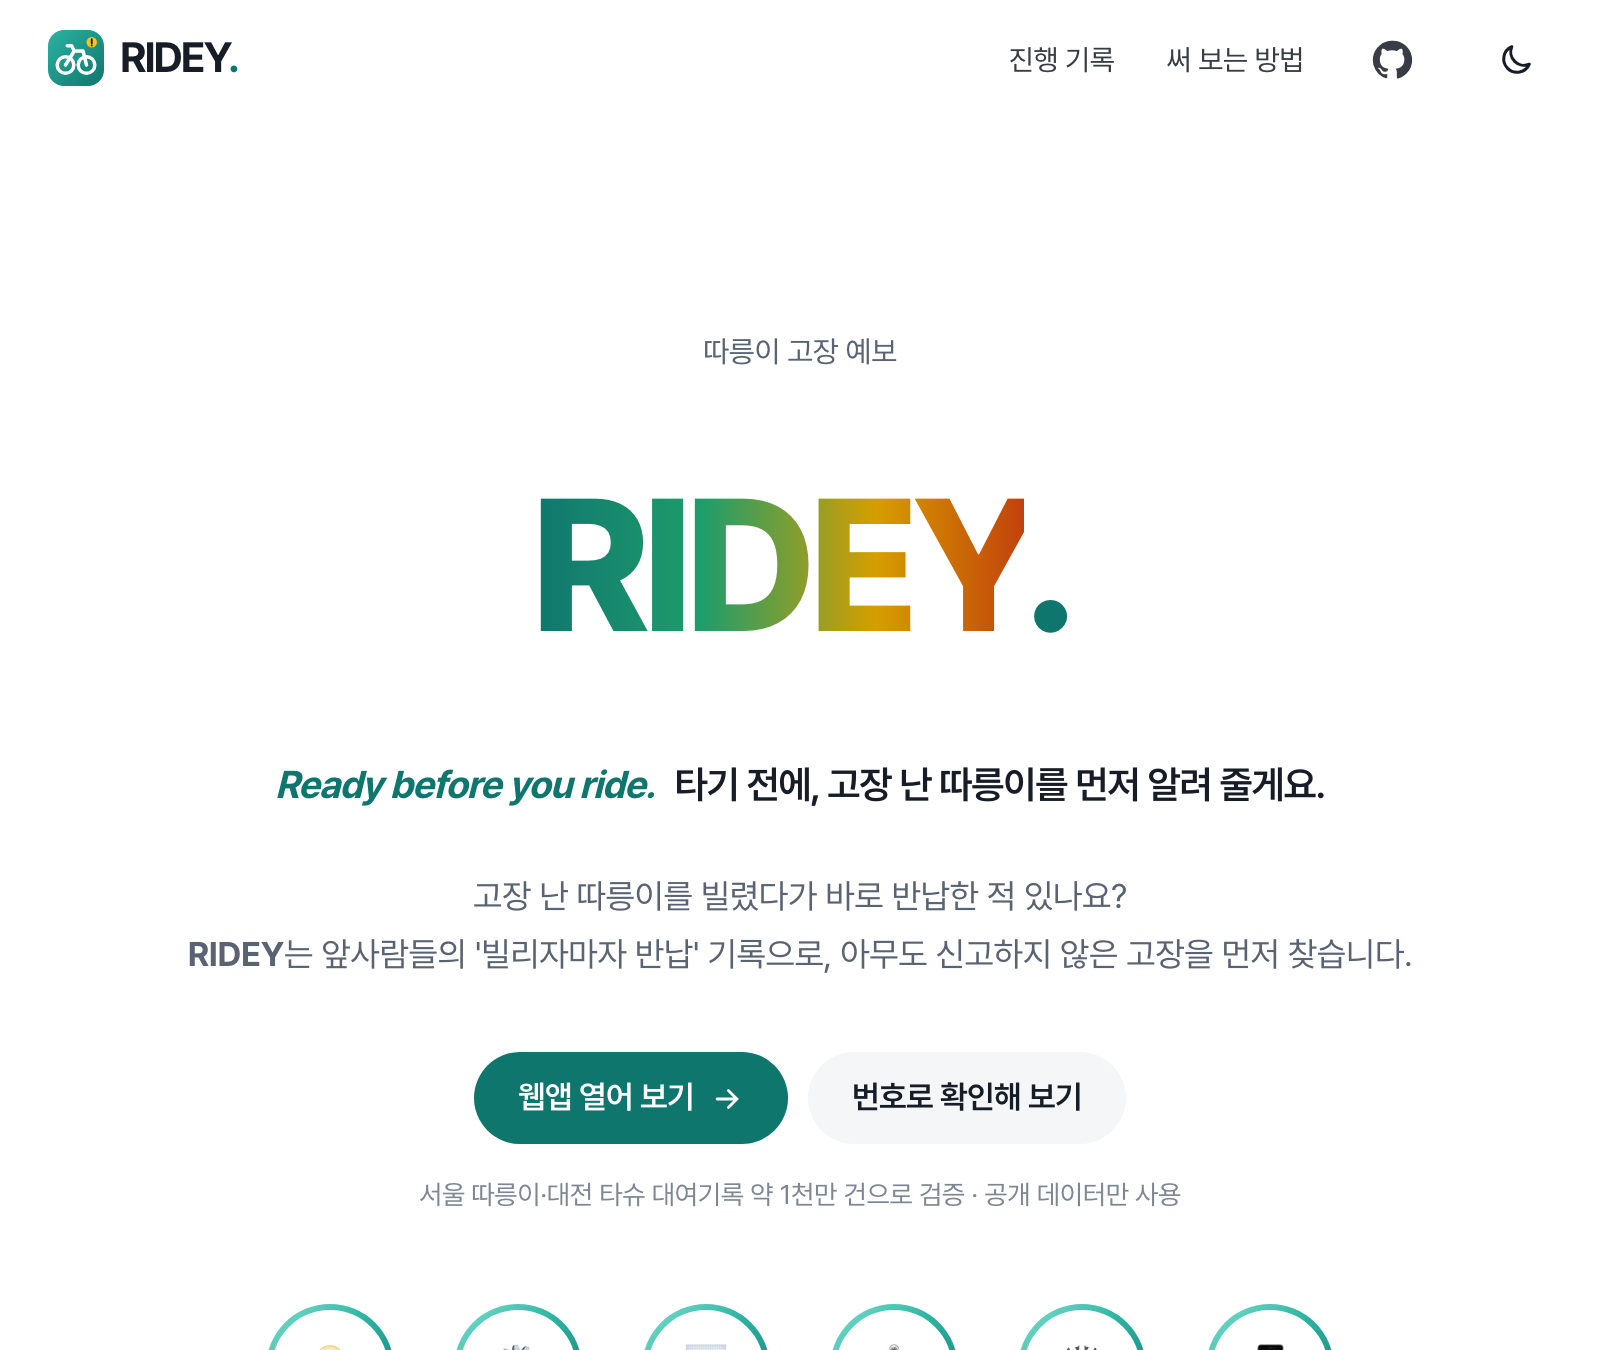
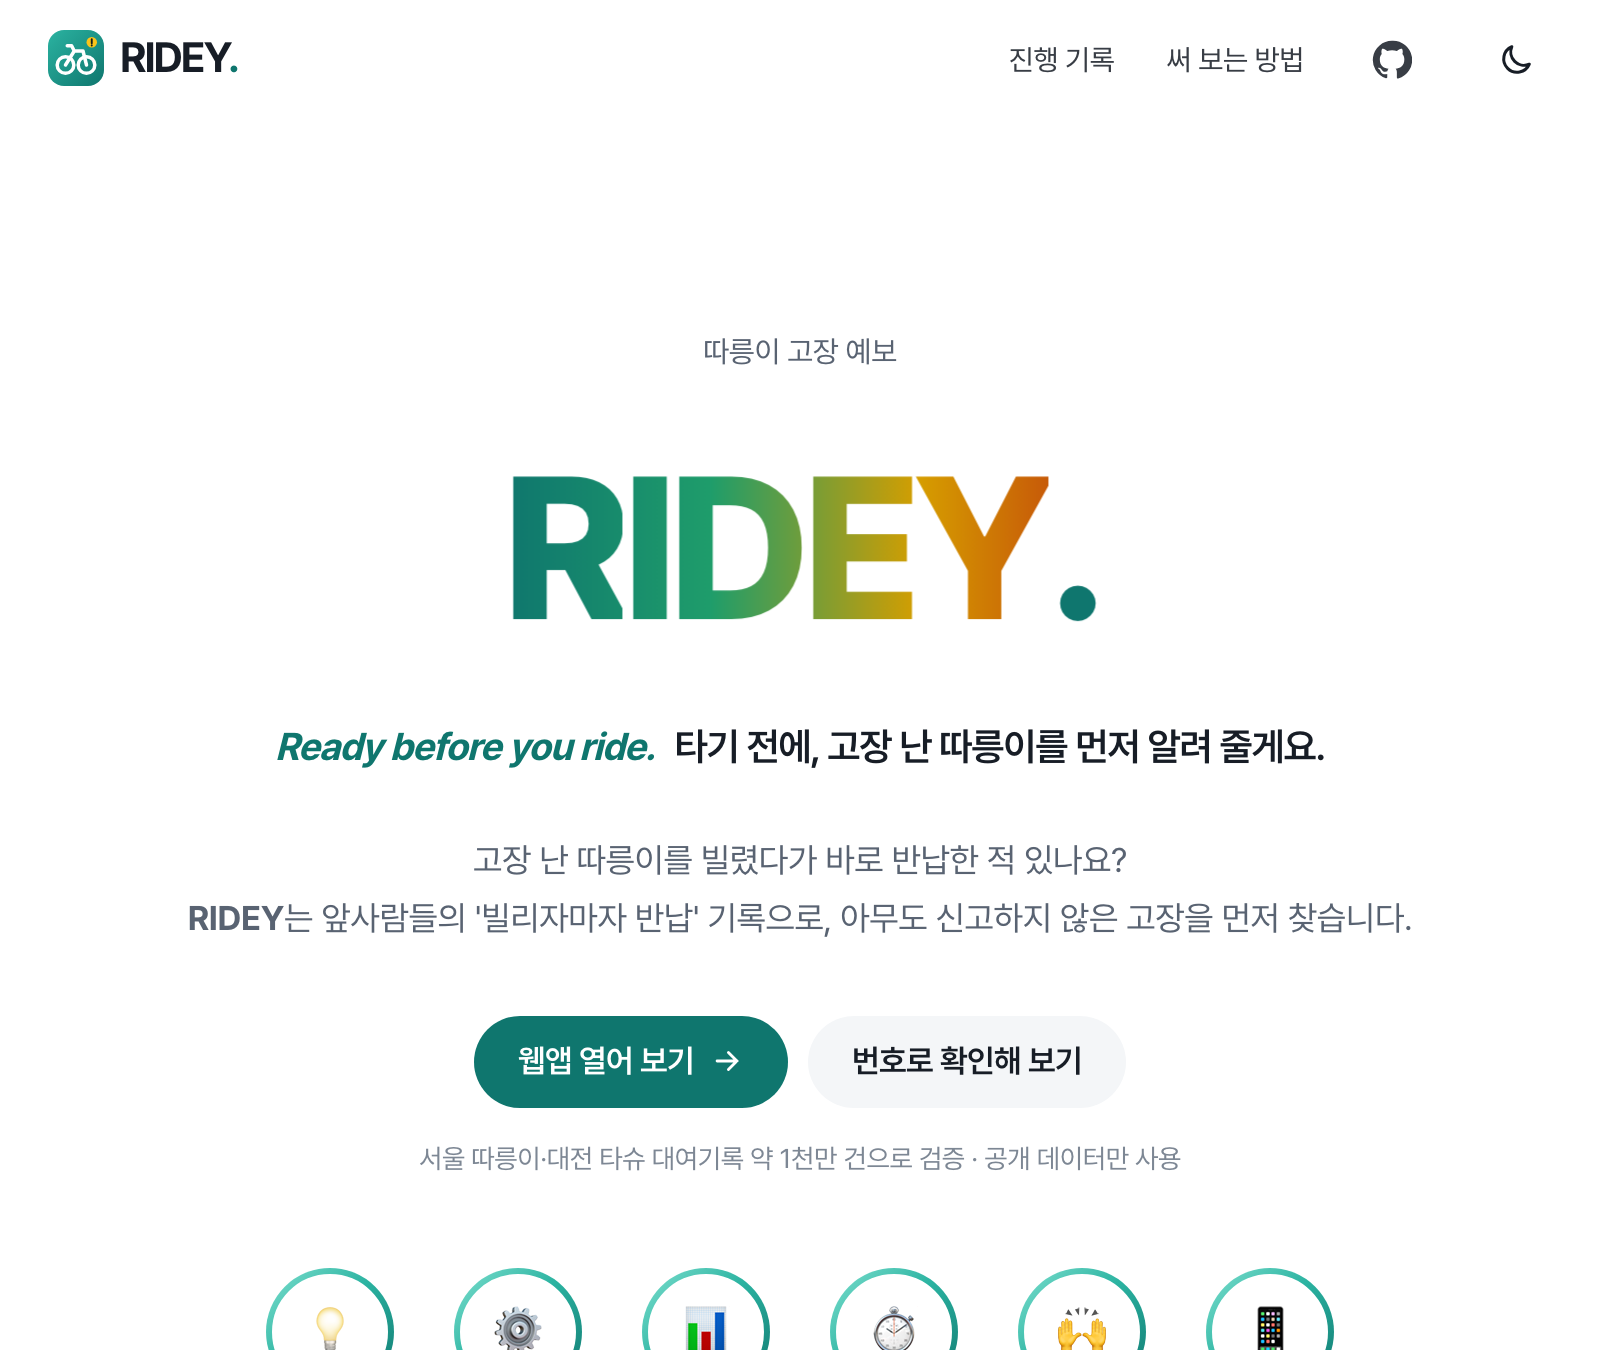
사이트 첫 화면 다시: 원래 모양(두 줄·무지개 둘째 줄·깜빡이는 커서)으로 타자 '빌리기 전에, / 준비.' → 지우고 'Ready before / you ride.' → 펑: 글자가 3D 로 화면 앞으로 튀어나오며 흩어지고 RIDEY. 가 깊은 안쪽에서 앞으로 날아와 자리 잡음

diff --git a/site/index.html b/site/index.html
@@ -38,9 +38,8 @@
     <div class="wrap">
       <p class="eyebrow">따릉이 고장 예보</p>
       <h1 class="brand" id="brand" aria-label="빌리기 전에, 준비. Ready before you ride. RIDEY." title="다시 보기">
-        <span class="b1" id="b1" lang="ko" aria-hidden="true">빌리기 전에, <em>준비.</em></span>
-        <span class="b2" id="b2" lang="en" aria-hidden="true">Ready before you ride.</span>
-        <span class="b3" id="b3" lang="en" aria-hidden="true">RIDEY.</span>
+        <span class="lines" aria-hidden="true"><span class="l1" id="l1"></span><br><span class="l2" id="l2"></span><span class="caret" id="caret"></span></span>
+        <span class="ridey" id="ridey" lang="en" aria-hidden="true"></span>
       </h1>
       <p class="motto-ko"><i lang="en">Ready before you ride.</i> 타기 전에, 고장 난 따릉이를 먼저 알려 줄게요.</p>
       <p class="lede">고장 난 따릉이를 빌렸다가 바로 반납한 적 있나요?<br><b>RIDEY</b>는 앞사람들의 '빌리자마자 반납' 기록으로, 아무도 신고하지 않은 고장을 먼저 찾습니다.</p>
@@ -415,86 +414,92 @@
   });
   addEventListener("scroll", () => $("#top").classList.toggle("scrolled", scrollY > 8), { passive: true });
 
-  // 첫 화면 제목: '빌리기 전에, 준비.' → 'Ready before you ride.' → 남은 글자(ride 의 r·i·d·e, you 의 y, 마침표)가 모여 'RIDEY.'
-  const b2 = $("#b2"), b3 = $("#b3");
-  const keep = { 17: "R", 18: "I", 19: "D", 20: "E", 13: "Y", 21: "dot" };   // 'Ready before you ride.' 글자 자리 → RIDEY. 의 글자
-  b2.innerHTML = [...b2.textContent].map((ch, i) => keep[i] ? `<b data-to="${keep[i]}">${ch}</b>` : `<span class="x">${ch === " " ? "&nbsp;" : ch}</span>`).join("");
-  b3.innerHTML = '<span class="word">' + [..."RIDEY"].map((ch) => `<b data-k="${ch}">${ch}</b>`).join("") + '</span><i data-k="dot">.</i>';
+  // 첫 화면 제목 — 타자: '빌리기 전에, / 준비.' → 지우고 → 'Ready before / you ride.' → 펑: 글자가 화면 앞으로 튀어나오며 흩어지고,
+  // 깊은 안쪽에서 RIDEY. 가 앞으로 날아와 한 번 넘치고 자리 잡는다 (Web Animations API + CSS 3D, 라이브러리 없음)
   const wait = (ms) => new Promise((r) => setTimeout(r, ms));
-  // 스프링(튕기며 멈춤) — linear() 가 되는 브라우저는 진짜 스프링 곡선, 아니면 살짝 넘치는 베지어
-  const SPRING = CSS.supports && CSS.supports("animation-timing-function", "linear(0, 1)")
-    ? "linear(0, 0.013 0.6%, 0.05 1.2%, 0.2 2.5%, 0.64 5.8%, 0.92 8.4%, 1.05 10.2%, 1.14 12%, 1.18 13.9%, 1.17 15.5%, 1.12 17.9%, 1.03 21.6%, 0.98 25.3%, 0.97 28%, 0.98 31.6%, 1.005 38.8%, 1.01 45%, 1 60%, 1)"
-    : "cubic-bezier(.34, 1.56, .64, 1)";
   const SPARK = ["#0f766e", "#1f9d6b", "#2cc5b1", "#d69e00", "#f2c14e", "#c2410c"];
-  function burst(box, x, y, n, dist, size = 7) {   // 불꽃 조각을 한 점에서 사방으로 (CSS-Tricks 'Playing With Particles Using the WAAPI' 방식)
+  const L1 = $("#l1"), L2 = $("#l2"), CARET = $("#caret"), RIDEY = $("#ridey"), BOX = $("#brand");
+  function fx(cls, x, y, w, frames, opt) {   // 번쩍임·파동 한 번
+    const e = document.createElement("i"); e.className = cls;
+    Object.assign(e.style, { left: x + "px", top: y + "px", width: w + "px", height: w + "px" });
+    BOX.appendChild(e); e.animate(frames, opt).onfinish = () => e.remove();
+  }
+  function sparks(x, y, n, dist) {   // 불꽃 조각 — 3D 로 앞쪽까지 튄다
     for (let i = 0; i < n; i++) {
       const d = document.createElement("i"); d.className = "spark";
-      const s = size * (0.5 + Math.random());
+      const s = 5 + Math.random() * 9, ang = Math.random() * Math.PI * 2, r = dist * (0.3 + Math.random());
       Object.assign(d.style, { left: x + "px", top: y + "px", width: s + "px", height: s + "px", background: SPARK[i % SPARK.length] });
-      box.appendChild(d);
-      const ang = Math.random() * Math.PI * 2, r = dist * (0.35 + Math.random() * 0.9);
-      d.animate([{ transform: "translate(-50%, -50%) scale(1)", opacity: 1 },
-                 { transform: `translate(calc(-50% + ${Math.cos(ang) * r}px), calc(-50% + ${Math.sin(ang) * r}px)) scale(0)`, opacity: 0 }],
-        { duration: 650 + Math.random() * 550, easing: "cubic-bezier(.12, .75, .3, 1)" }).onfinish = () => d.remove();
+      BOX.appendChild(d);
+      d.animate([{ transform: "translate3d(-50%, -50%, 0) scale(1)", opacity: 1 },
+                 { transform: `translate3d(calc(-50% + ${Math.cos(ang) * r}px), calc(-50% + ${Math.sin(ang) * r}px), ${200 + Math.random() * 500}px) scale(0)`, opacity: 0 }],
+        { duration: 700 + Math.random() * 600, easing: "cubic-bezier(.12, .75, .3, 1)" }).onfinish = () => d.remove();
     }
   }
-  function flash(box, x, y, w) {   // 펑 순간의 번쩍임 — 가운데서 퍼졌다 사라지는 빛
-    const f = document.createElement("i"); f.className = "flash"; Object.assign(f.style, { left: x + "px", top: y + "px", width: w + "px", height: w + "px" });
-    box.appendChild(f);
-    f.animate([{ transform: "translate(-50%, -50%) scale(.1)", opacity: 0 }, { transform: "translate(-50%, -50%) scale(.6)", opacity: .85, offset: .25 }, { transform: "translate(-50%, -50%) scale(1)", opacity: 0 }],
-      { duration: 520, easing: "ease-out" }).onfinish = () => f.remove();
+  // 글자마다 한 칸 — 이어진 그라데이션을 글자마다 나눠 칠해 흩어질 때도 무지개가 끊기지 않게
+  function split(el, grad) {
+    const w = el.getBoundingClientRect().width, left = el.getBoundingClientRect().left;
+    const text = el.textContent; el.textContent = "";
+    const out = [...text].map((ch) => { const c = document.createElement("span"); c.className = "ch"; c.textContent = ch === " " ? " " : ch; el.appendChild(c); return c; });
+    if (grad) out.forEach((c) => { const r = c.getBoundingClientRect(); Object.assign(c.style, { backgroundImage: "var(--grad)", backgroundSize: w + "px 100%", backgroundPosition: `${left - r.left}px 0` }); c.classList.add("g"); });
+    return out;
   }
-  function ring(box, x, y, w) {   // 펑 — 퍼지는 둥근 파동
-    const r = document.createElement("i"); r.className = "shock"; Object.assign(r.style, { left: x + "px", top: y + "px", width: w + "px", height: w + "px" });
-    box.appendChild(r);
-    r.animate([{ transform: "translate(-50%, -50%) scale(.05)", opacity: .9 }, { transform: "translate(-50%, -50%) scale(1)", opacity: 0 }],
-      { duration: 750, easing: "cubic-bezier(.1, .7, .3, 1)" }).onfinish = () => r.remove();
-  }
+  async function type(el, text, ms) { for (const ch of text) { el.textContent += ch; await wait(ms * (0.75 + Math.random() * 0.5)); } }
+  async function erase(el, ms) { while (el.textContent) { el.textContent = el.textContent.slice(0, -1); await wait(ms); } }
   let run = 0;
   async function brand() {
     const me = ++run, alive = () => me === run;
-    const box = $("#brand"), [s1, s2, s3] = ["#b1", "#b2", "#b3"].map((q) => $(q));
-    box.querySelectorAll(".spark, .shock").forEach((e) => e.remove());
-    [s1, s2, s3, ...s2.querySelectorAll("b, .x")].forEach((e) => e.getAnimations().forEach((an) => an.cancel()));
-    [s1, s2, s3].forEach((x) => x.classList.remove("on", "thin", "gone"));
-    if (reduce) { s3.classList.add("on"); return; }
-    s1.classList.add("on"); await wait(1800); if (!alive()) return;
-    s1.classList.remove("on"); s2.classList.add("on"); await wait(1900); if (!alive()) return;
-    // 1) 힘 모으기 — 살짝 떨림
-    await s2.animate([{ transform: "translateY(-50%) scale(1)" }, { transform: "translateY(-50%) scale(1.035) translateX(-2px)" }, { transform: "translateY(-50%) scale(1.035) translateX(2px)" },
-                      { transform: "translateY(-50%) scale(1.02) translateX(-1px)" }, { transform: "translateY(-50%) scale(1)" }], { duration: 380, easing: "ease-in-out" }).finished;
+    BOX.querySelectorAll(".spark, .flash, .shock").forEach((e) => e.remove());
+    RIDEY.getAnimations({ subtree: true }).forEach((a) => a.cancel());
+    L1.textContent = ""; L2.textContent = ""; RIDEY.textContent = ""; RIDEY.classList.remove("on"); BOX.classList.remove("done"); CARET.hidden = false;
+    if (reduce) { RIDEY.textContent = "RIDEY."; RIDEY.classList.add("on"); BOX.classList.add("done"); return; }
+    await wait(400);
+    await type(L1, "빌리기 전에,", 120); if (!alive()) return;
+    await type(L2, "준비.", 160); if (!alive()) return;
+    await wait(1100); if (!alive()) return;
+    await erase(L2, 55); await erase(L1, 40); if (!alive()) return;
+    await wait(250);
+    await type(L1, "Ready before", 85); if (!alive()) return;
+    await type(L2, "you ride.", 110); if (!alive()) return;
+    await wait(1000); if (!alive()) return;
+    // 힘 모으기 — 살짝 떨림
+    CARET.hidden = true;
+    await BOX.querySelector(".lines").animate([{ transform: "none" }, { transform: "scale(1.03) translateX(-3px)" }, { transform: "scale(1.04) translateX(3px)" }, { transform: "scale(1.02) translateX(-2px)" }, { transform: "none" }],
+      { duration: 360, easing: "ease-in-out" }).finished;
     if (!alive()) return;
-    // 2) 펑 — 파동·불꽃, 남지 않는 글자는 사방으로 튀며 사라짐
-    const bx = box.getBoundingClientRect(), sr = s2.getBoundingClientRect();
-    const cx = sr.left + sr.width / 2 - bx.left, cy = sr.top + sr.height / 2 - bx.top;
-    flash(box, cx, cy, Math.max(sr.width * 1.2, 360));
-    ring(box, cx, cy, Math.max(bx.width, 520) * 1.1);
-    setTimeout(() => ring(box, cx, cy, Math.max(bx.width, 520) * 0.7), 90);
-    burst(box, cx, cy, 80, Math.max(bx.width * 0.6, 300), 10);
-    s2.querySelectorAll(".x").forEach((e) => {
-      const r = e.getBoundingClientRect(), ex = r.left + r.width / 2 - bx.left, ey = r.top + r.height / 2 - bx.top;
-      const ang = Math.atan2(ey - cy, ex - cx) + (Math.random() - 0.5) * 0.9, d = 260 + Math.random() * 380;
-      e.animate([{ transform: "none", opacity: 1 },
-                 { transform: `translate(${Math.cos(ang) * d * .55}px, ${Math.sin(ang) * d * .55 - 40}px) rotate(${(Math.random() - 0.5) * 300}deg) scale(1.1)`, opacity: 1, offset: .35 },
-                 { transform: `translate(${Math.cos(ang) * d}px, ${Math.sin(ang) * d + 60}px) rotate(${(Math.random() - 0.5) * 720}deg) scale(.5)`, opacity: 0 }],
-        { duration: 1000 + Math.random() * 400, easing: "cubic-bezier(.2, .6, .35, 1)", fill: "forwards" });
+    // 펑 — 글자가 화면 앞으로 튀어나오며 흩어진다
+    const bx = BOX.getBoundingClientRect(), cx = bx.width / 2, cy = bx.height / 2;
+    const chars = [...split(L1, false), ...split(L2, true)];
+    fx("flash", cx, cy, Math.max(bx.width * 0.6, 380), [{ transform: "translate(-50%, -50%) scale(.1)", opacity: 0 }, { transform: "translate(-50%, -50%) scale(.6)", opacity: .9, offset: .25 }, { transform: "translate(-50%, -50%) scale(1)", opacity: 0 }], { duration: 560, easing: "ease-out" });
+    fx("shock", cx, cy, Math.max(bx.width, 560) * 1.15, [{ transform: "translate(-50%, -50%) scale(.05)", opacity: .9 }, { transform: "translate(-50%, -50%) scale(1)", opacity: 0 }], { duration: 800, easing: "cubic-bezier(.1, .7, .3, 1)" });
+    sparks(cx, cy, 70, Math.max(bx.width * 0.55, 280));
+    chars.forEach((c) => {
+      const r = c.getBoundingClientRect(), x = r.left + r.width / 2 - bx.left - cx, y = r.top + r.height / 2 - bx.top - cy;
+      const z = 500 + Math.random() * 700;   // 앞으로 (보는 사람 쪽)
+      const tx = x * 1.6 + (Math.random() - 0.5) * 220, ty = y * 2.2 + (Math.random() - 0.5) * 160, rx = (Math.random() - 0.5) * 220, ry = (Math.random() - 0.5) * 260;
+      c.animate([{ transform: "translate3d(0, 0, 0)", opacity: 1, filter: "blur(0)" },
+                 { transform: `translate3d(${tx * .45}px, ${ty * .45}px, ${z * .5}px) rotateX(${rx * .4}deg) rotateY(${ry * .4}deg)`, opacity: 1, filter: "blur(0)", offset: .45 },   // 절반은 또렷하게 — 앞으로 튀어나오는 게 보이게
+                 { transform: `translate3d(${tx}px, ${ty}px, ${z}px) rotateX(${rx}deg) rotateY(${ry}deg)`, opacity: 0, filter: "blur(4px)" }],
+        { duration: 900 + Math.random() * 300, easing: "cubic-bezier(.22, .6, .3, 1)", fill: "forwards" });
     });
-    // 3) 남은 글자(r·i·d·e, y, 마침표)는 튕기며 RIDEY. 자리로 — 하나씩 조금 늦게
-    const dst = Object.fromEntries([...s3.querySelectorAll("[data-k]")].map((e) => [e.dataset.k, e.getBoundingClientRect()]));
-    const order = ["R", "I", "D", "E", "Y", "dot"];
-    const moves = [...s2.querySelectorAll("[data-to]")].map((e) => {
-      const a = e.getBoundingClientRect(), b = dst[e.dataset.to], k = b.height / a.height;
-      const dx = b.left + b.width / 2 - a.left - a.width / 2, dy = b.top + b.height / 2 - a.top - a.height / 2;
-      return e.animate([{ transform: "none" }, { transform: `translate(${dx}px, ${dy}px) scale(${k})` }],
-        { duration: 1000, delay: 120 + order.indexOf(e.dataset.to) * 70, easing: SPRING, fill: "forwards" }).finished;
-    });
-    await Promise.all(moves); if (!alive()) return;
-    // 4) 한 번 더 펑 — 진짜 RIDEY. 가 튀어나오며 자리 잡기
-    s2.classList.add("gone"); s3.classList.add("on");
-    const wr = s3.getBoundingClientRect();
-    burst(box, wr.left + wr.width / 2 - bx.left, wr.top + wr.height / 2 - bx.top, 30, Math.max(wr.width * 0.75, 200), 6);
-    s3.animate([{ transform: "translateY(-50%) scale(.92)" }, { transform: "translateY(-50%) scale(1.07)", offset: .45 }, { transform: "translateY(-50%) scale(1)" }],
-      { duration: 650, easing: "cubic-bezier(.2, .8, .2, 1)" });
+    await wait(260); if (!alive()) return;
+    // RIDEY. — 깊은 안쪽에서 앞으로 날아와 한 번 넘치고 자리 잡는다
+    RIDEY.innerHTML = [..."RIDEY"].map((ch) => `<span class="rc">${ch}</span>`).join("") + '<span class="rc dot">.</span>';
+    RIDEY.classList.add("on");
+    const rw = RIDEY.getBoundingClientRect(), rl = rw.left;
+    const letters = [...RIDEY.querySelectorAll(".rc")];
+    letters.forEach((c) => { if (!c.classList.contains("dot")) { const r = c.getBoundingClientRect(); Object.assign(c.style, { backgroundImage: "var(--grad)", backgroundSize: rw.width + "px 100%", backgroundPosition: `${rl - r.left}px 0` }); } });
+    const flights = letters.map((c, i) => c.animate([
+      { transform: `translate3d(${(i - 2.5) * 40}px, 20px, -1600px) rotateY(${(i - 2.5) * 26}deg) rotateX(40deg)`, opacity: 0 },
+      { opacity: 1, offset: .35 },
+      { transform: "translate3d(0, 0, 180px) rotateY(0) rotateX(0)", opacity: 1, offset: .72 },
+      { transform: "translate3d(0, 0, 0)", opacity: 1 }],
+      { duration: 1150, delay: i * 75, easing: "cubic-bezier(.2, .8, .25, 1)", fill: "both" }).finished);
+    await Promise.all(flights); if (!alive()) return;
+    L1.textContent = ""; L2.textContent = "";
+    BOX.classList.add("done");
+    const rr = RIDEY.getBoundingClientRect();
+    sparks(rr.left + rr.width / 2 - bx.left, rr.top + rr.height / 2 - bx.top, 26, Math.max(rr.width * 0.7, 200));
+    RIDEY.animate([{ transform: "translate(-50%, -50%) scale(1)" }, { transform: "translate(-50%, -50%) scale(1.06)", offset: .4 }, { transform: "translate(-50%, -50%) scale(1)" }], { duration: 520, easing: "cubic-bezier(.2, .8, .2, 1)" });
   }
   brand();
   $("#brand").addEventListener("click", brand);

diff --git a/site/style.css b/site/style.css
@@ -49,24 +49,25 @@ header.top .wrap { height: 100%; display: flex; align-items: center; justify-con
 .logo i { color: var(--accent); font-style: normal; }
 .logo { display: inline-flex; align-items: center; gap: 8px; }
 .logo img { width: 28px; height: 28px; border-radius: 8px; display: block; }
-/* 첫 화면 제목 — 세 줄이 같은 자리에서 바뀐다 (index.html brand()) */
-.brand { position: relative; height: clamp(150px, 19vw, 230px); margin: 6px 0 0; cursor: pointer; font-size: clamp(36px, 6vw, 66px); font-weight: 680; letter-spacing: -0.05em; line-height: 1.12; }
-.brand > span { position: absolute; left: 0; right: 0; top: 50%; transform: translateY(-50%); opacity: 0; transition: opacity .6s ease; }
-.brand > span.on { opacity: 1; }
-.brand .b1 em { font-style: normal; background: var(--grad); -webkit-background-clip: text; background-clip: text; color: transparent; }
-.brand .b2 b { font-weight: inherit; display: inline-block; color: var(--accent); }
-.brand .b2 .x { display: inline-block; }
+/* 첫 화면 제목 — 원래 모양(두 줄, 둘째 줄 무지개, 깜빡이는 커서)에 타자 → 펑(3D) → RIDEY. (index.html brand()) */
+.brand { position: relative; perspective: 900px; perspective-origin: 50% 50%; min-height: calc(2 * 1.16em); cursor: pointer; }
+.brand .lines { display: inline-block; transform-style: preserve-3d; }
+.brand .l2 { background: var(--grad); -webkit-background-clip: text; background-clip: text; color: transparent; }
+.brand .caret { display: inline-block; width: .06em; height: .9em; margin-left: .04em; vertical-align: -0.08em; background: var(--accent); animation: blink 1s steps(1) infinite; }
+.brand .caret[hidden] { display: none; }
+.brand .ch { display: inline-block; will-change: transform, opacity; }
+.brand .ch.g { -webkit-background-clip: text; background-clip: text; color: transparent; }
+.brand .ridey { position: absolute; left: 50%; top: 50%; transform: translate(-50%, -50%); white-space: nowrap; font-size: 1.75em; font-weight: 800; letter-spacing: -0.045em;
+  transform-style: preserve-3d; opacity: 0; pointer-events: none; }
+.brand .ridey.on { opacity: 1; }
+.brand .rc { display: inline-block; -webkit-background-clip: text; background-clip: text; color: transparent; will-change: transform, opacity; }
+.brand .rc.dot { color: var(--accent); background: none; }
+.brand.done .lines { visibility: hidden; }
 .brand .spark { position: absolute; border-radius: 50%; pointer-events: none; z-index: 2; }
 .brand .flash { position: absolute; border-radius: 50%; pointer-events: none; opacity: 0; z-index: 1;
   background: radial-gradient(circle, color-mix(in srgb, #fff 90%, var(--accent)) 0%, color-mix(in srgb, var(--accent) 45%, transparent) 38%, transparent 70%); }
 .brand .shock { position: absolute; border-radius: 50%; border: 3px solid var(--accent); pointer-events: none; opacity: 0; box-shadow: 0 0 40px 4px color-mix(in srgb, var(--accent) 35%, transparent); }
-.hero { overflow-x: clip; }   /* 튀어나간 불꽃이 가로 스크롤을 만들지 않게 */
-.brand .b2.gone { opacity: 0; transition: opacity .3s ease; }
-.brand .b3 { font-size: 1.95em; font-weight: 800; letter-spacing: -0.045em; }
-.brand .b3 .word { background: var(--grad); -webkit-background-clip: text; background-clip: text; color: transparent; }   /* 한 단어에 한 번(글자마다 걸면 줄무늬) */
-.brand .b3 b { font-weight: inherit; }
-.brand .b3 i { font-style: normal; color: var(--accent); }
-@media (prefers-reduced-motion: reduce) { .brand > span { transition: none; } }
+.hero { overflow-x: clip; }   /* 튀어나간 글자·불꽃이 가로 스크롤을 만들지 않게 */
 .hero .motto-ko i { font-weight: 700; color: var(--accent); margin-right: 6px; }
 .hero .motto-ko { margin: 18px 0 0; font-size: clamp(19px, 2.4vw, 24px); font-weight: 600; letter-spacing: -0.03em; color: var(--ink); }
 nav.links { display: flex; align-items: center; gap: 26px; font-size: 14.5px; }
